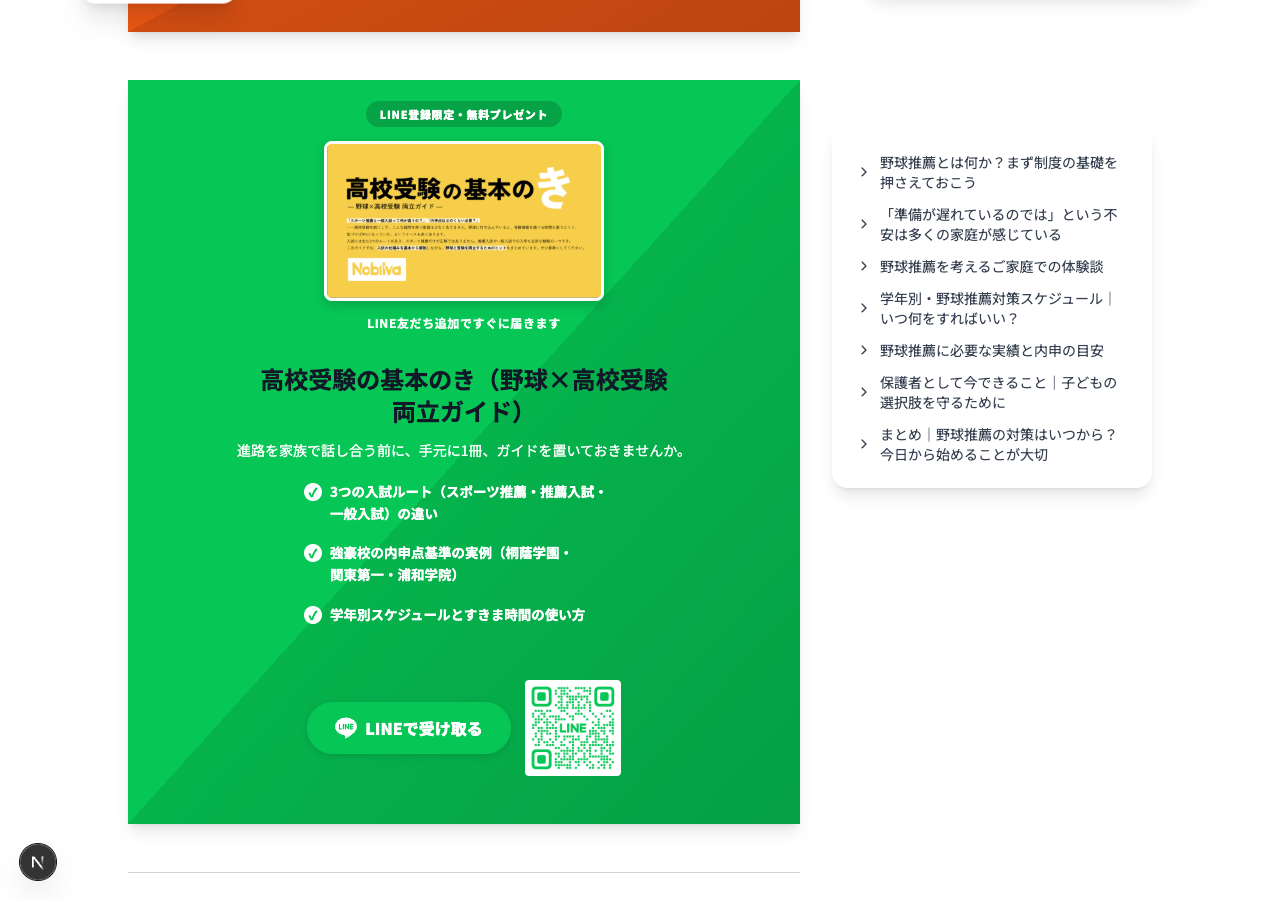
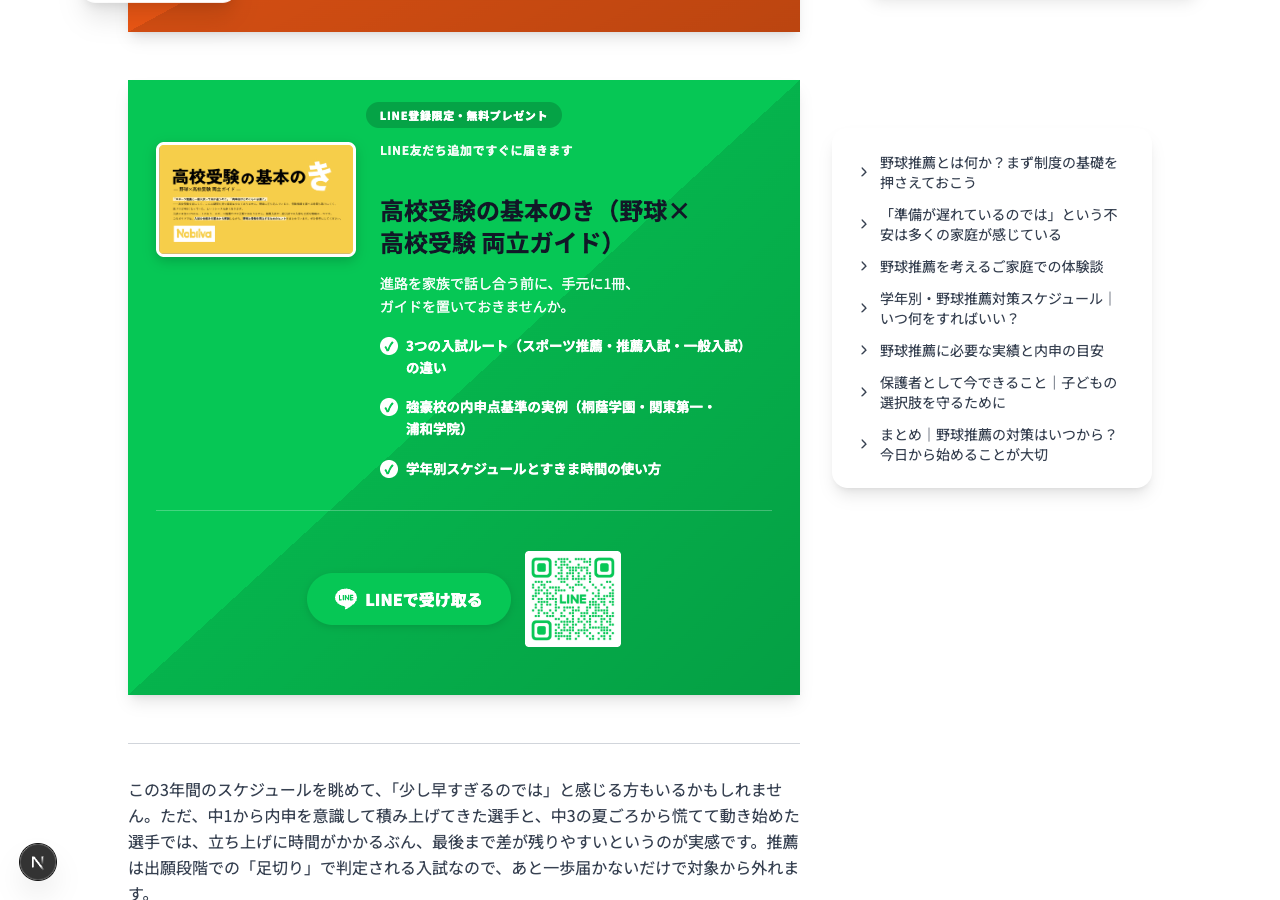
blog: LINE 特典カードの PC 版が縦に長すぎる問題を修正。PC (768px+) ではサムネ左 + 本文右の 2 カラム grid に組み直し、縦の面積を半分くらいに圧縮。スマホは従来通り中央寄せ縦積みのまま。(A) `lib/rehype-cta-plugin.ts` の LINE 特典カード型 (gift あり) で、内側 wrapper に `cta-line-inner-gift` クラス、各子要素にも `cta-line-badge` / `cta-line-thumb` / `cta-line-label` / `cta-line-heading` / `cta-lin

Changed region(s): [[0.0938, 0.1244, 0.625, 1.0]]

diff --git a/lib/rehype-cta-plugin.ts b/lib/rehype-cta-plugin.ts
@@ -138,7 +138,7 @@ export const rehypeCtaPlugin: Plugin<[], Root> = () => {
 
           // -- 簡素型（gift なし or variant=simple）: title + description + 白ボタン --
           // 注: .cta-block-inner は globals.css で `md:flex-row` が当たっているため使えない。
-          // LINE 用の独自クラス cta-line-inner を使い、PC では中央寄せ + max-width を効かせる
+          // LINE 用の独自クラス cta-line-inner を使い、PC では max-width で収める (CSS 側で定義)
           if (isSimple) {
             node.children = [
               gradientOverlay,
@@ -146,10 +146,10 @@ export const rehypeCtaPlugin: Plugin<[], Root> = () => {
                 type: 'element' as const,
                 tagName: 'div',
                 properties: {
-                  className: ['cta-line-inner'],
+                  className: ['cta-line-inner', 'cta-line-inner-simple'],
                   style:
                     'position:relative;z-index:1;padding:22px 18px 24px;text-align:center;' +
-                    'display:block;max-width:560px;margin:0 auto;',
+                    'display:block;margin:0 auto;',
                 },
                 children: [
                   ...(title ? [{
@@ -191,10 +191,10 @@ export const rehypeCtaPlugin: Plugin<[], Root> = () => {
               type: 'element' as const,
               tagName: 'div',
               properties: {
-                className: ['cta-line-inner'],
+                className: ['cta-line-inner', 'cta-line-inner-gift'],
                 style:
                   'position:relative;z-index:1;padding:20px 16px 24px;text-align:center;' +
-                  'display:block;max-width:560px;margin:0 auto;',
+                  'display:block;margin:0 auto;',
               },
               children: [
                 // ヘッダーバッジ (半透明の黒丸)
@@ -202,6 +202,7 @@ export const rehypeCtaPlugin: Plugin<[], Root> = () => {
                   type: 'element' as const,
                   tagName: 'div',
                   properties: {
+                    className: ['cta-line-badge'],
                     style:
                       'display:inline-block;background:rgba(0,0,0,0.18);padding:5px 14px;' +
                       'border-radius:999px;color:#fff;font-size:11px;font-weight:800;' +
@@ -209,11 +210,12 @@ export const rehypeCtaPlugin: Plugin<[], Root> = () => {
                   },
                   children: [{ type: 'text' as const, value: 'LINE登録限定・無料プレゼント' }],
                 },
-                // 表紙サムネ (大きめ、中央寄せ、白フレーム)
+                // 表紙サムネ (スマホで大きめ、PC で縮小)
                 {
                   type: 'element' as const,
                   tagName: 'img',
                   properties: {
+                    className: ['cta-line-thumb'],
                     src: '/images/nobilva/line-guide-cover.jpg',
                     alt: '高校受験の基本のき（野球×高校受験 両立ガイド）表紙',
                     width: '280',
@@ -230,7 +232,7 @@ export const rehypeCtaPlugin: Plugin<[], Root> = () => {
                   type: 'element' as const,
                   tagName: 'p',
                   properties: {
-                    className: ['cta-line-gift-label'],
+                    className: ['cta-line-gift-label', 'cta-line-label'],
                     style: 'color:#fff;font-size:12px;font-weight:700;margin:0 0 4px;opacity:0.95;',
                   },
                   children: [{ type: 'text' as const, value: 'LINE友だち追加ですぐに届きます' }],
@@ -240,7 +242,7 @@ export const rehypeCtaPlugin: Plugin<[], Root> = () => {
                   type: 'element' as const,
                   tagName: 'h3',
                   properties: {
-                    className: ['cta-line-gift-name'],
+                    className: ['cta-line-gift-name', 'cta-line-heading'],
                     style:
                       'color:#fff;font-size:20px;font-weight:900;line-height:1.4;' +
                       'margin:0 0 12px;letter-spacing:0.01em;',
@@ -252,6 +254,7 @@ export const rehypeCtaPlugin: Plugin<[], Root> = () => {
                   type: 'element' as const,
                   tagName: 'p',
                   properties: {
+                    className: ['cta-line-sub'],
                     style: 'color:#fff;font-size:14px;line-height:1.65;margin:0 0 14px;opacity:0.95;',
                   },
                   children: [{ type: 'text' as const, value: applySoftBreaks(title) }],

diff --git a/app/globals.css b/app/globals.css
@@ -488,6 +488,80 @@
     }
   }
 
+  /* LINE CTA の内側 wrapper
+     - スマホ: 縦積み中央寄せ (インライン style で定義済み)
+     - PC (768px+): 面積を抑えるため、特典カード型はサムネ左 + 本文右の2カラム grid、
+       簡素型は max-width で中央に収める。縦の冗長さを半分くらいに減らす */
+  .cta-line-inner-simple {
+    max-width: 640px;
+  }
+  @media (min-width: 768px) {
+    .cta-line-inner-simple {
+      max-width: 520px;
+      padding: 20px 24px 22px !important;
+    }
+  }
+  .cta-line-inner-gift {
+    max-width: 640px;
+  }
+  @media (min-width: 768px) {
+    .cta-line-inner-gift {
+      max-width: 760px;
+      padding: 22px 28px 24px !important;
+      display: grid !important;
+      grid-template-columns: 200px 1fr;
+      grid-template-areas:
+        "badge badge"
+        "thumb label"
+        "thumb heading"
+        "thumb sub"
+        "thumb items"
+        "foot foot";
+      column-gap: 24px;
+      row-gap: 2px;
+      align-items: start;
+      text-align: left !important;
+    }
+    .cta-line-inner-gift > .cta-line-badge {
+      grid-area: badge;
+      justify-self: center;
+      margin-bottom: 12px !important;
+    }
+    .cta-line-inner-gift > .cta-line-thumb {
+      grid-area: thumb;
+      width: 200px !important;
+      max-width: 200px !important;
+      margin: 0 !important;
+      align-self: start;
+    }
+    .cta-line-inner-gift > .cta-line-label {
+      grid-area: label;
+      margin: 0 0 2px !important;
+    }
+    .cta-line-inner-gift > .cta-line-heading {
+      grid-area: heading;
+      font-size: 20px !important;
+      margin: 0 0 8px !important;
+    }
+    .cta-line-inner-gift > .cta-line-sub {
+      grid-area: sub;
+      margin: 0 0 10px !important;
+    }
+    .cta-line-inner-gift > .cta-line-items {
+      grid-area: items;
+      display: block !important;
+      max-width: none !important;
+      margin: 0 !important;
+    }
+    .cta-line-inner-gift > .cta-line-foot {
+      grid-area: foot;
+      justify-content: center;
+      margin-top: 16px !important;
+      padding-top: 16px;
+      border-top: 1px solid rgba(255, 255, 255, 0.25);
+    }
+  }
+
   /* TeachIt CTA Theme */
   .cta-block-teachit {
     @apply bg-gradient-to-br from-teachit-light via-white to-teachit-light border-4 border-teachit-main;
